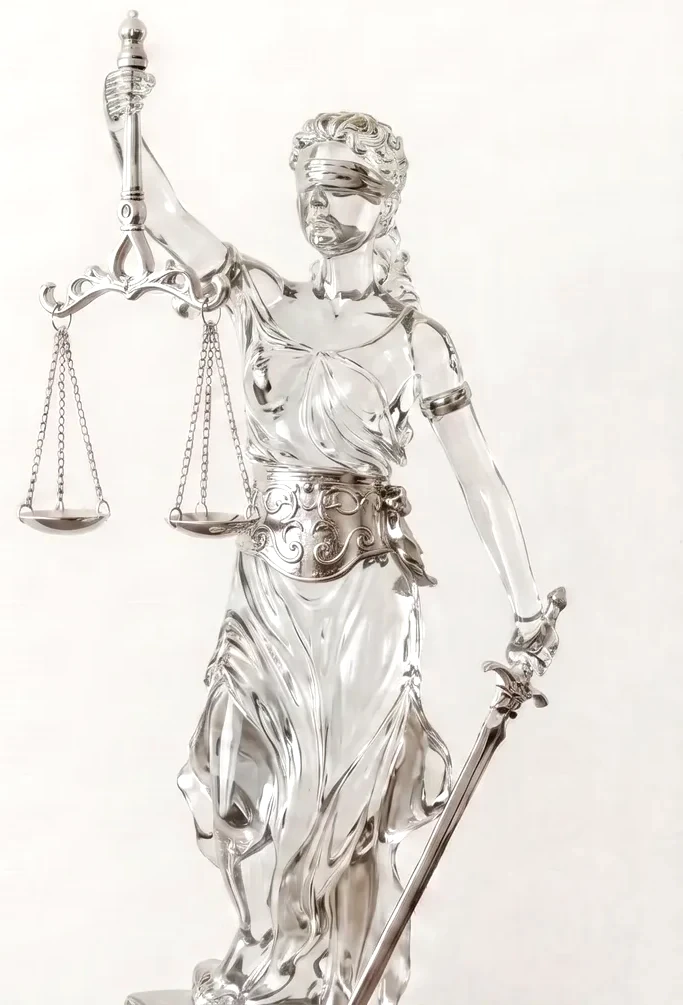
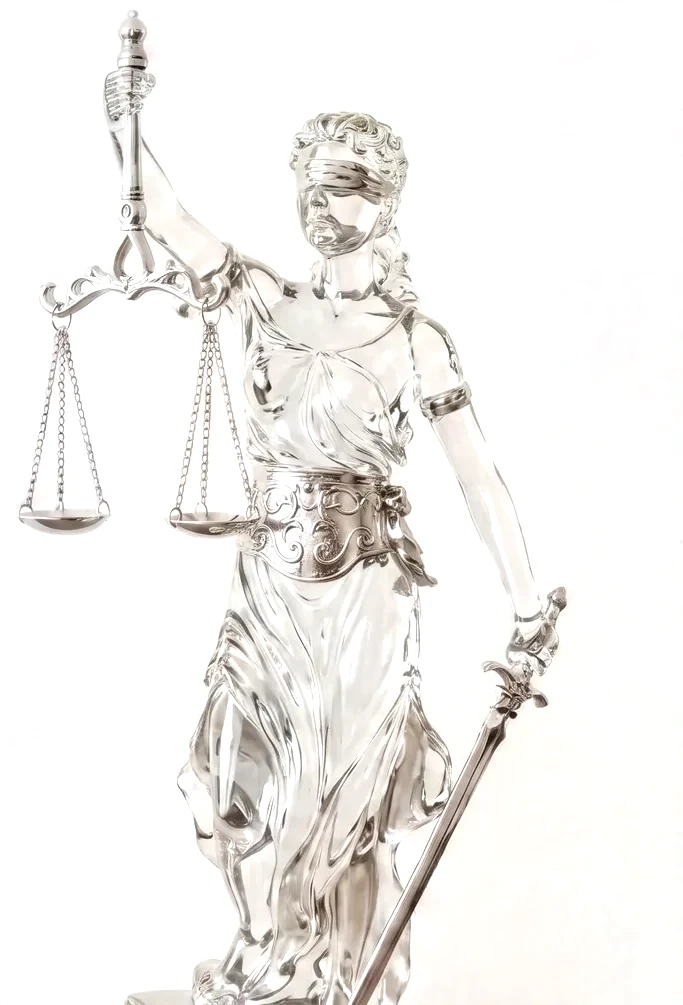
Real alpha plates, iOS-26 glass, stacking-override fix
Cards were not stacking because .liquid-glass set position: relative. It is a
utility-layer class declared after Tailwind's, so it silently beat 'absolute'
on the deck cards and they laid out as a vertical list.

Glass reworked to the reference: fill 42% -> 10%, blur 22px -> 7px, plus
saturation and brightness lift, so the backdrop reads THROUGH the pane.
Stacked panes bleed text, so the deck gets a denser sibling class.

Justitia ships with a real alpha channel instead of mix-blend-multiply, which
only erases the backdrop where the element shares a stacking context with
something painted - why one instance worked and three showed a white box.

diff --git a/src/app/globals.css b/src/app/globals.css
@@ -239,16 +239,21 @@ body::before {
      inner rim. Anything sitting on this needs the backdrop to be interesting,
      which is why it is used over the sculpture and never on flat ground. */
   .liquid-glass {
-    background: color-mix(in oklch, var(--card) 42%, transparent);
-    -webkit-backdrop-filter: blur(22px) saturate(185%);
-    backdrop-filter: blur(22px) saturate(185%);
-    border: 1px solid color-mix(in oklch, white 45%, transparent);
+    /* iOS-26 style: the backdrop stays READABLE through the pane. The old
+       values (22px blur, 42% fill) frosted it into opacity. Keep the fill
+       near-nil, the blur short, and lift brightness/saturation so what is
+       behind reads as refracted rather than washed out.
+       No 'position' here on purpose: it is a utility-layer class declared
+       after Tailwind's, so 'position: relative' silently beat 'absolute' on
+       anything using both. */
+    background: color-mix(in oklch, var(--card) 10%, transparent);
+    -webkit-backdrop-filter: blur(7px) saturate(190%) brightness(1.06);
+    backdrop-filter: blur(7px) saturate(190%) brightness(1.06);
+    border: 1px solid color-mix(in oklch, white 40%, transparent);
     box-shadow:
-      inset 0 1px 0 rgba(255, 255, 255, 0.7),
-      inset 0 -1px 0 rgba(255, 255, 255, 0.22),
-      inset 1px 0 0 rgba(255, 255, 255, 0.25),
-      0 26px 64px -34px rgba(31, 42, 51, 0.5);
-    position: relative;
+      inset 0 1px 0 rgba(255, 255, 255, 0.55),
+      inset 0 -1px 0 rgba(255, 255, 255, 0.18),
+      0 26px 64px -34px rgba(31, 42, 51, 0.42);
     isolation: isolate;
   }
   /* The specular sweep across the top third — what sells it as glass rather
@@ -261,18 +266,32 @@ body::before {
     border-radius: inherit;
     pointer-events: none;
     background: linear-gradient(
-      150deg,
-      rgba(255, 255, 255, 0.55) 0%,
-      rgba(255, 255, 255, 0.12) 34%,
-      transparent 60%
+      152deg,
+      rgba(255, 255, 255, 0.4) 0%,
+      rgba(255, 255, 255, 0.06) 30%,
+      transparent 55%
     );
   }
   .dark .liquid-glass {
-    background: color-mix(in oklch, var(--card) 46%, transparent);
-    border-color: rgba(255, 255, 255, 0.14);
+    background: color-mix(in oklch, var(--card) 16%, transparent);
+    border-color: rgba(255, 255, 255, 0.12);
     box-shadow:
-      inset 0 1px 0 rgba(255, 255, 255, 0.16),
-      0 26px 64px -34px rgba(0, 0, 0, 0.7);
+      inset 0 1px 0 rgba(255, 255, 255, 0.14),
+      0 26px 64px -34px rgba(0, 0, 0, 0.65);
+  }
+
+  /* Deck variant: same glass, but opaque enough that seven stacked panes do
+     not bleed each other’s text through. The rail and the hero panel are
+     single layers and keep the fully see-through version. */
+  .liquid-glass-deck {
+    background: color-mix(in oklch, var(--card) 74%, transparent);
+    -webkit-backdrop-filter: blur(16px) saturate(180%);
+    backdrop-filter: blur(16px) saturate(180%);
+    border: 1px solid color-mix(in oklch, white 55%, transparent);
+    box-shadow:
+      inset 0 1px 0 rgba(255, 255, 255, 0.7),
+      0 26px 64px -30px rgba(31, 42, 51, 0.45);
+    isolation: isolate;
   }
 
   /* Single-family shimmer, not a hue rotation — a light highlight sweeping

diff --git a/src/components/justitia.tsx b/src/components/justitia.tsx
@@ -3,10 +3,10 @@ import { cn } from "@/lib/utils";
 
 // The sculpture as its own layer, above the shader and never sampled into it.
 //
-// The plates are tight crops whose backdrop has been levels-stretched to pure
-// white at build time, so `multiply` erases it completely on every ivory
-// surface — no per-instance tuning, and it beats alpha matting, which cannot
-// cut a transparent glass object whose highlights outshine its own backdrop.
+// The plates ship with a real alpha channel, cut at build once the backdrop
+// was flat-fielded to pure white. Blend modes were fragile - multiply only
+// erases the backdrop when the element shares a stacking context with
+// something painted, which is why one instance worked and three did not.
 export function Justitia({
   src,
   className,
@@ -37,7 +37,7 @@ export function Justitia({
         sizes={sizes}
         style={{ filter: `brightness(${brightness}) contrast(1.04) saturate(0.12)` }}
         className={cn(
-          "object-contain object-bottom mix-blend-multiply",
+          "object-contain object-bottom",
           imageClassName
         )}
       />

diff --git a/src/components/practice-sequence.tsx b/src/components/practice-sequence.tsx
@@ -83,7 +83,7 @@ function DeckCard({
   return (
     <motion.article
       style={{ y, scale, opacity, zIndex: i }}
-      className="liquid-glass absolute inset-x-0 top-0 origin-top rounded-3xl p-6 sm:p-8"
+      className="liquid-glass-deck absolute inset-x-0 top-0 origin-top rounded-3xl p-6 shadow-lg sm:p-8"
     >
       <div className="flex items-start justify-between gap-6">
         <div className="[perspective:600px]">
@@ -233,7 +233,7 @@ export function PracticeSequence({
             {/* Phase 0 — the plate. No card, no border: on mobile it sits
                 behind everything, on desktop it holds the left column. */}
             <Justitia
-              src="/hero-marble-flat.webp"
+              src="/hero-marble-alpha.webp"
               sizes="(max-width: 1024px) 80vw, 20rem"
               className="inset-0 lg:inset-auto lg:top-0 lg:bottom-0 lg:left-0 lg:w-80"
               imageClassName="object-contain object-bottom opacity-45 lg:opacity-100"

diff --git a/src/components/reading-rail.tsx b/src/components/reading-rail.tsx
@@ -107,9 +107,7 @@ export function ReadingRail({ scope = "main" }: { scope?: string }) {
                 />
                 <span
                   className={`max-w-44 truncate text-[11px] transition-opacity duration-300 ${
-                    on
-                      ? "text-foreground opacity-100"
-                      : "text-muted-foreground opacity-0 group-hover:opacity-100"
+                    "opacity-0 group-hover:opacity-100 " + (on ? "text-foreground" : "text-muted-foreground")
                   }`}
                 >
                   {s.text}

diff --git a/src/app/page.tsx b/src/app/page.tsx
@@ -119,7 +119,7 @@ export default function Home() {
         {/* Above the shader, never sampled into it. Runs from under the header
             down to where the panel starts, hugging the right edge. */}
         <Justitia
-          src="/hero-glass-flat.webp"
+          src="/hero-glass-alpha.webp"
           priority
           sizes="(max-width: 640px) 105vw, 42vw"
           className="inset-y-0 -right-[8vw] w-[104vw] sm:right-0 sm:w-[46vw] lg:right-[3%] lg:w-[40vw]"
